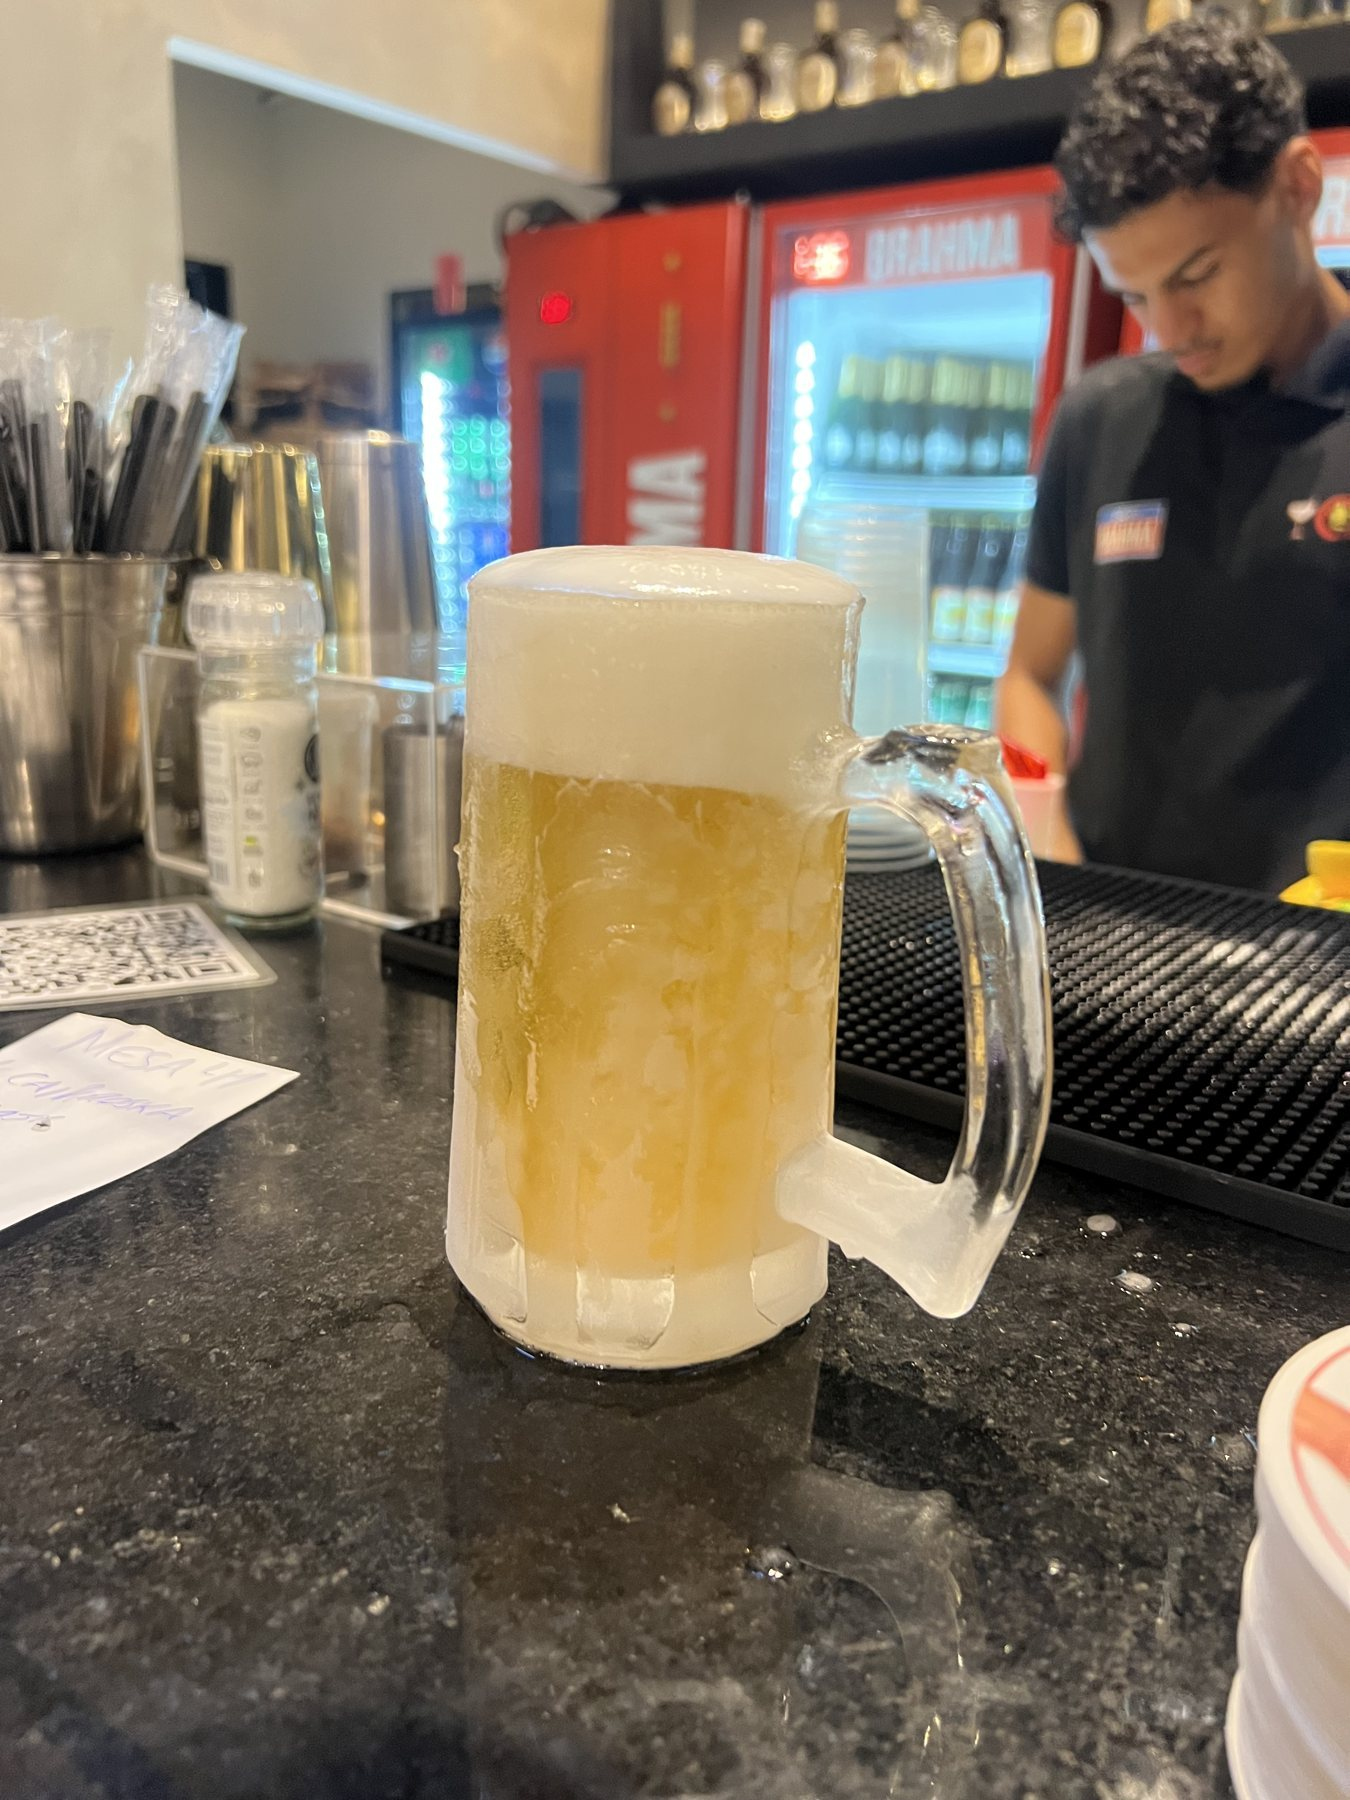
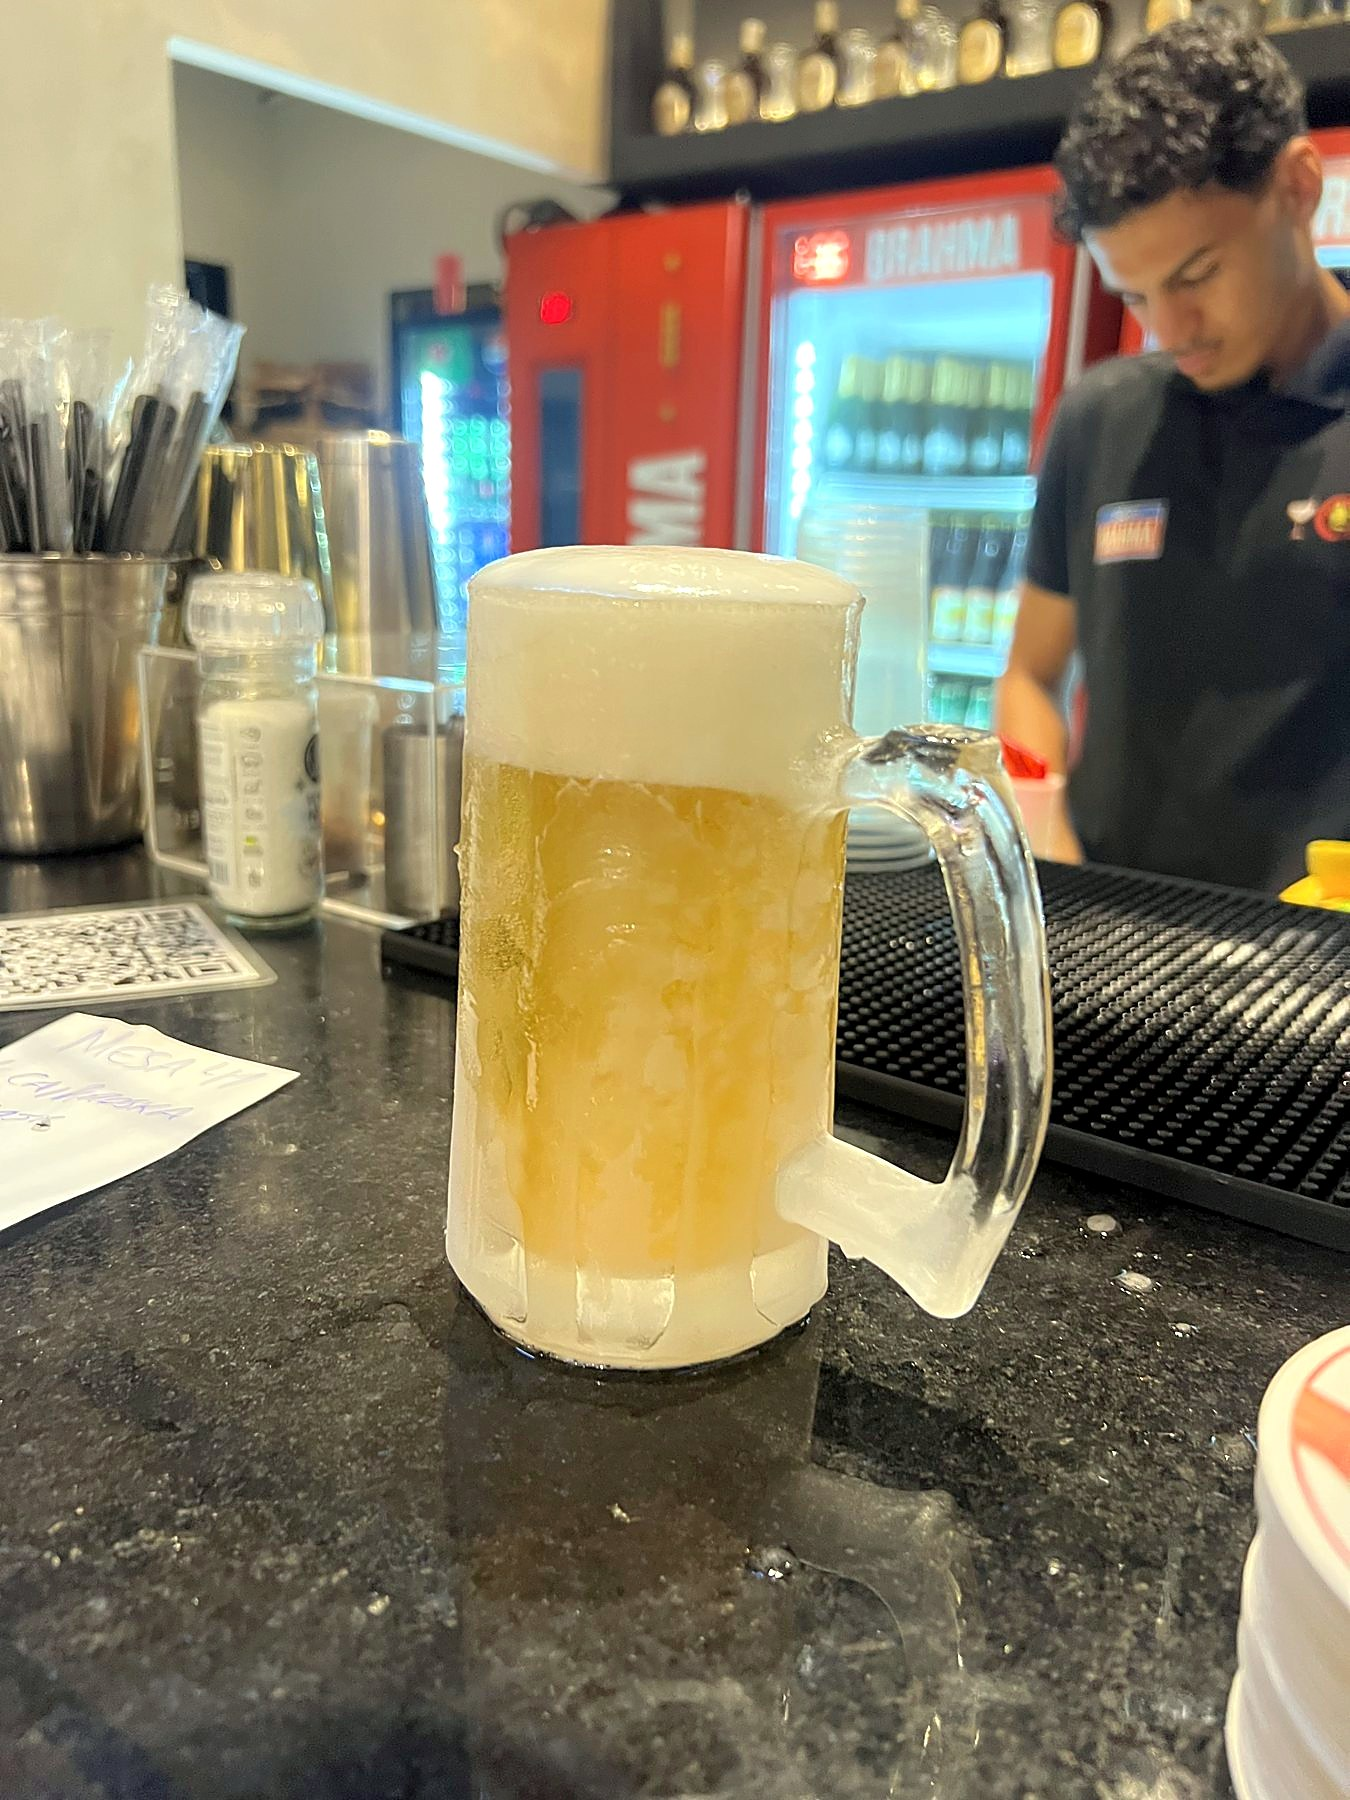
Kikiu: fotos melhores e o site mais animado
- fotos reais com a luz levantada e um pouco de nitidez
- animacao leve: fotos entram ao rolar, crescem ao passar o mouse, linha de leitura no topo

Claude-Session: https://claude.ai/code/session_01AcD5KovsAxWFqpVPnpKhY5

Changed region(s): [[0.7778, 0.5289, 0.8711, 0.56]]

diff --git a/assets/animacao.css b/assets/animacao.css
@@ -1,0 +1,61 @@
+/* animacao.css — o site mais vivo, sem atrapalhar a leitura.
+ *
+ * Tres coisas, todas baratas (transform e opacity, que o navegador anima sem
+ * recalcular layout):
+ *   1. as fotos e os cartoes entram ao rolar, um depois do outro;
+ *   2. a foto cresce de leve quando o dedo ou o mouse passa;
+ *   3. uma linha fina no topo mostra o quanto da pagina ja foi lido.
+ *
+ * Nada fica escondido sem JavaScript: o estado inicial so existe quando o
+ * animacao.js liga a classe `anima-on` — e ele nunca esconde o que ja esta na
+ * tela. Quem pediu menos movimento no aparelho nao recebe nenhum.
+ */
+:root { --anima-cor: var(--pessego, var(--shu, var(--rosso, #c4161c))); }
+
+/* 1. entrada ao rolar */
+html.anima-on .anima {
+  opacity: 0; transform: translateY(26px) scale(.985);
+  transition: opacity .8s ease, transform .9s cubic-bezier(.2,.7,.3,1);
+  transition-delay: calc(var(--i, 0) * 110ms);
+  will-change: opacity, transform;
+}
+html.anima-on .anima.entrou { opacity: 1; transform: none; will-change: auto; }
+
+/* 2. a foto respira ao passar */
+.scatto, .foto, .facciata, .fachada, .destaque__foto { overflow: hidden; }
+.scatto img, .foto img, .facciata img, .fachada img {
+  transition: transform 1.1s cubic-bezier(.2,.7,.3,1), filter .6s ease;
+}
+@media (hover: hover) {
+  .scatto:hover img, .foto:hover img, .facciata:hover img, .fachada:hover img {
+    transform: scale(1.06); filter: saturate(1.08) contrast(1.03);
+  }
+}
+
+/* 3. linha de leitura */
+.anima-progresso {
+  position: fixed; inset: 0 0 auto 0; height: 3px; z-index: 200;
+  background: var(--anima-cor); transform-origin: 0 50%; transform: scaleX(0);
+  pointer-events: none;
+}
+
+/* o botao flutuante de reservar chama atencao de tempos em tempos: um anel
+   que sai dele e se apaga. E um pseudo-elemento, para nao tocar na sombra que
+   o botao ja tem. */
+@keyframes anima-pulso {
+  0%, 80%, 100% { opacity: 0; box-shadow: 0 0 0 0 var(--anima-cor); }
+  82%           { opacity: .55; box-shadow: 0 0 0 0 var(--anima-cor); }
+  98%           { opacity: 0; box-shadow: 0 0 0 18px var(--anima-cor); }
+}
+.wa::after {
+  content: ""; position: absolute; inset: 0; border-radius: inherit;
+  pointer-events: none; opacity: 0;
+  animation: anima-pulso 7s ease-out 3s infinite;
+}
+
+@media (prefers-reduced-motion: reduce) {
+  html.anima-on .anima { opacity: 1; transform: none; transition: none; }
+  .anima-progresso { display: none; }
+  .scatto img, .foto img, .facciata img, .fachada img { transition: none; transform: none !important; filter: none !important; }
+  .wa::after { animation: none; }
+}

diff --git a/assets/animacao.js b/assets/animacao.js
@@ -1,0 +1,44 @@
+/* animacao.js — ver animacao.css. Pequeno de proposito: roda depois de tudo
+ * e, se falhar, a pagina continua inteira (nada depende dele para aparecer). */
+(function () {
+  if (matchMedia('(prefers-reduced-motion: reduce)').matches || !('IntersectionObserver' in window)) return;
+
+  var alvos = document.querySelectorAll(
+    '.scatto, .foto, .destaque, .facciata, .fachada, .qr-cardapio, .cartao-opiniao, .agd-item');
+  var vh = window.innerHeight || 800;
+  var grupos = new Map();   // o "irmao numero N" de cada grupo entra com atraso N
+
+  alvos.forEach(function (el) {
+    var topo = el.getBoundingClientRect().top;
+    if (topo < vh * 0.92) return;                   // ja esta na tela: nunca esconder
+    var pai = el.parentElement, n = grupos.get(pai) || 0;
+    grupos.set(pai, n + 1);
+    el.style.setProperty('--i', n % 4);             // de 4 em 4: a fila nao fica longa
+    el.classList.add('anima');
+  });
+  document.documentElement.classList.add('anima-on');
+
+  var io = new IntersectionObserver(function (itens) {
+    itens.forEach(function (it) {
+      if (!it.isIntersecting) return;
+      it.target.classList.add('entrou');
+      io.unobserve(it.target);
+    });
+  }, { rootMargin: '0px 0px -8% 0px', threshold: 0.08 });
+  document.querySelectorAll('.anima').forEach(function (el) { io.observe(el); });
+
+  // linha de leitura
+  var barra = document.createElement('div');
+  barra.className = 'anima-progresso'; barra.setAttribute('aria-hidden', 'true');
+  document.body.appendChild(barra);
+  var esperando = false;
+  function atualizar() {
+    esperando = false;
+    var h = document.documentElement.scrollHeight - window.innerHeight;
+    barra.style.transform = 'scaleX(' + (h > 0 ? Math.min(1, window.scrollY / h) : 0) + ')';
+  }
+  window.addEventListener('scroll', function () {
+    if (!esperando) { esperando = true; requestAnimationFrame(atualizar); }
+  }, { passive: true });
+  atualizar();
+})();

diff --git a/index.html b/index.html
@@ -500,6 +500,7 @@ p:last-child { margin-bottom: 0; }
   .rodape__fim { padding-right: clamp(0px, 100vw - 640px, 92px); }
   @media (max-width: 640px) { .rodape__fim { padding-right: 0; padding-bottom: 76px; } }
 </style>
+<link rel="stylesheet" href="/assets/animacao.css">
 </head>
 <body>
 
@@ -2480,5 +2481,6 @@ p:last-child { margin-bottom: 0; }
 })();
 </script>
 <script type="module" src="assets/analytics.js"></script>
+<script src="/assets/animacao.js" defer></script>
 </body>
 </html>
